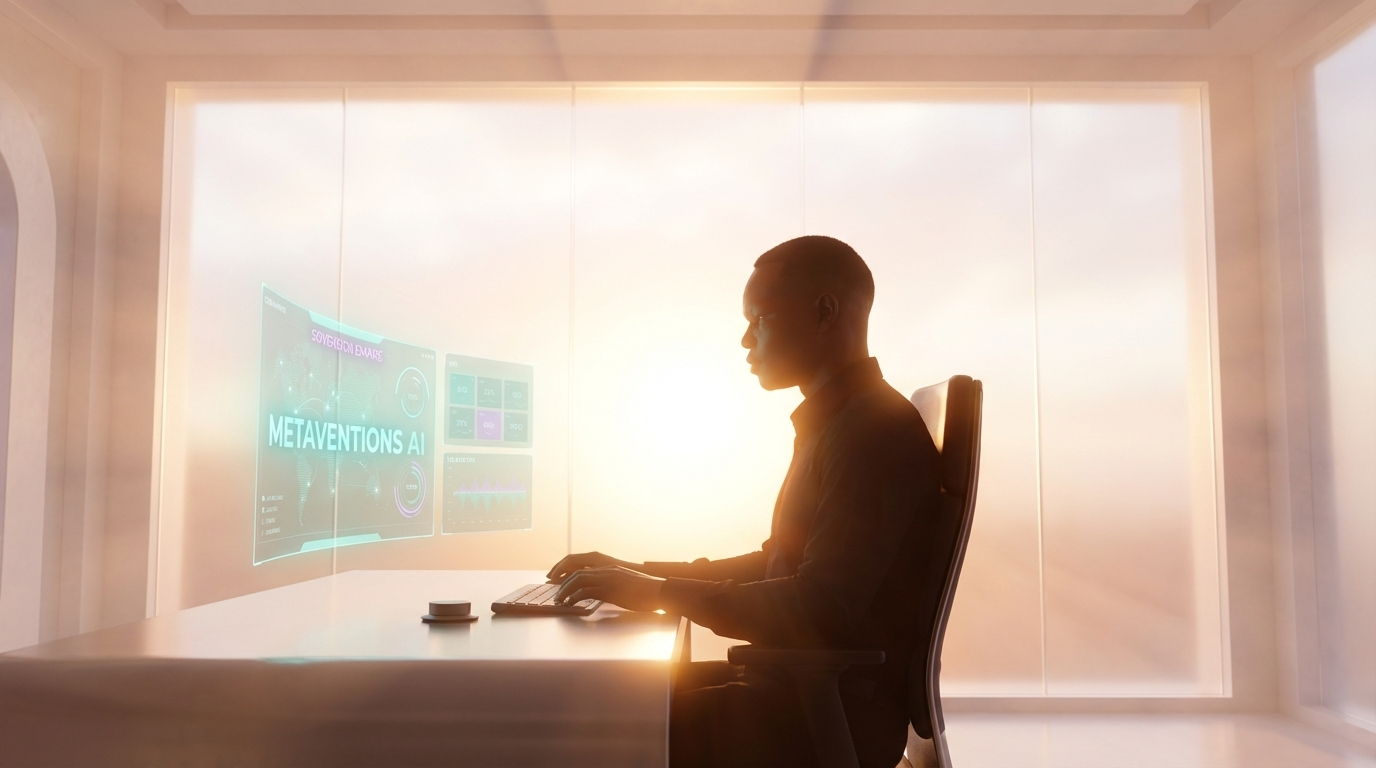
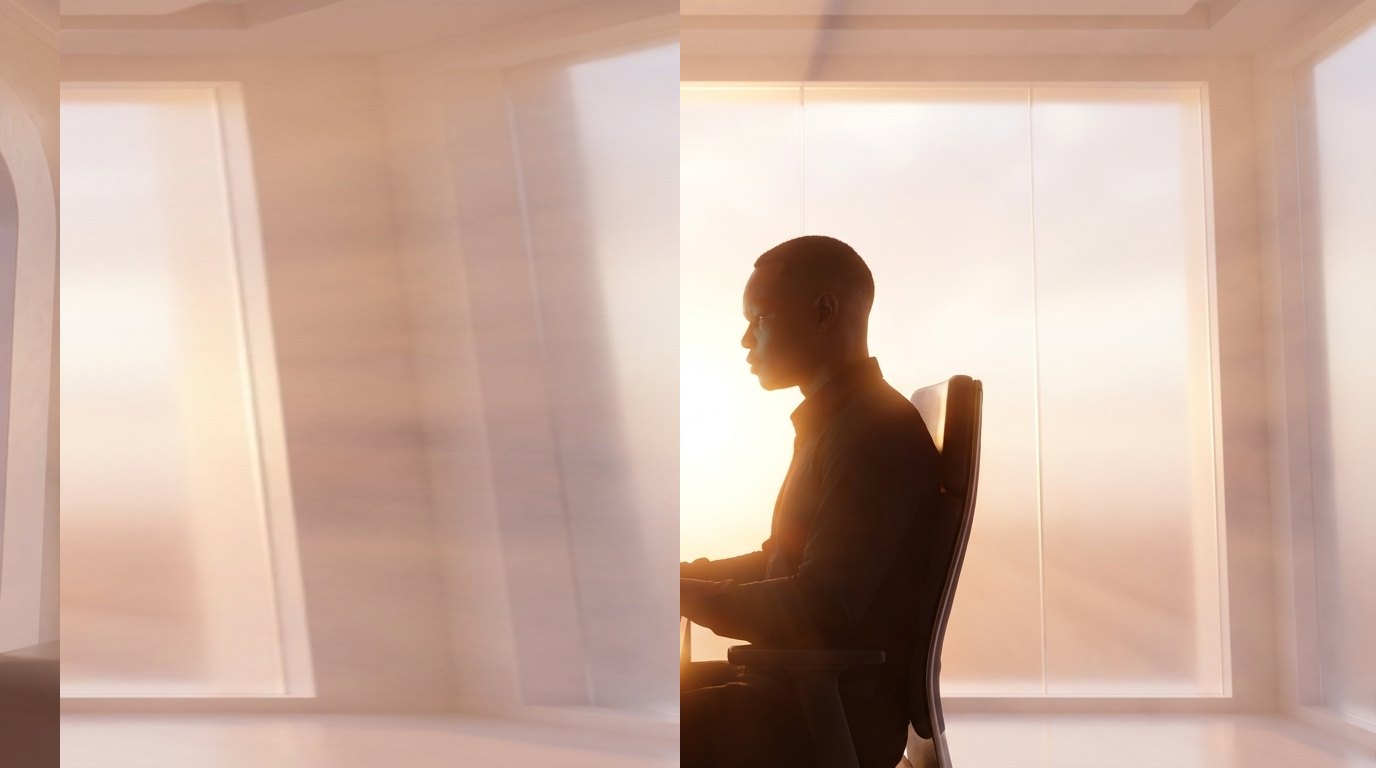
feat(hero): remove holo dashboard panel, bump bg opacity for desk visibility (#26)
Clone-stamped right-side window backdrop over the holographic 'METAVENTIONS AI' panel that was reading as a faded purple rectangle in dark mode. Bumped opacity 0.4 -> 0.6 (dark) and 0.15 -> 0.25 (light) so the desk silhouette comes through more clearly without the dashboard distraction.

diff --git a/src/components/Hero.tsx b/src/components/Hero.tsx
@@ -46,7 +46,7 @@ export default function Hero() {
           backgroundImage: 'url(/hero-bg.png)',
           backgroundSize: 'cover',
           backgroundPosition: 'center',
-          opacity: isLight ? 0.15 : 0.4,
+          opacity: isLight ? 0.25 : 0.6,
         }}
       />
 
